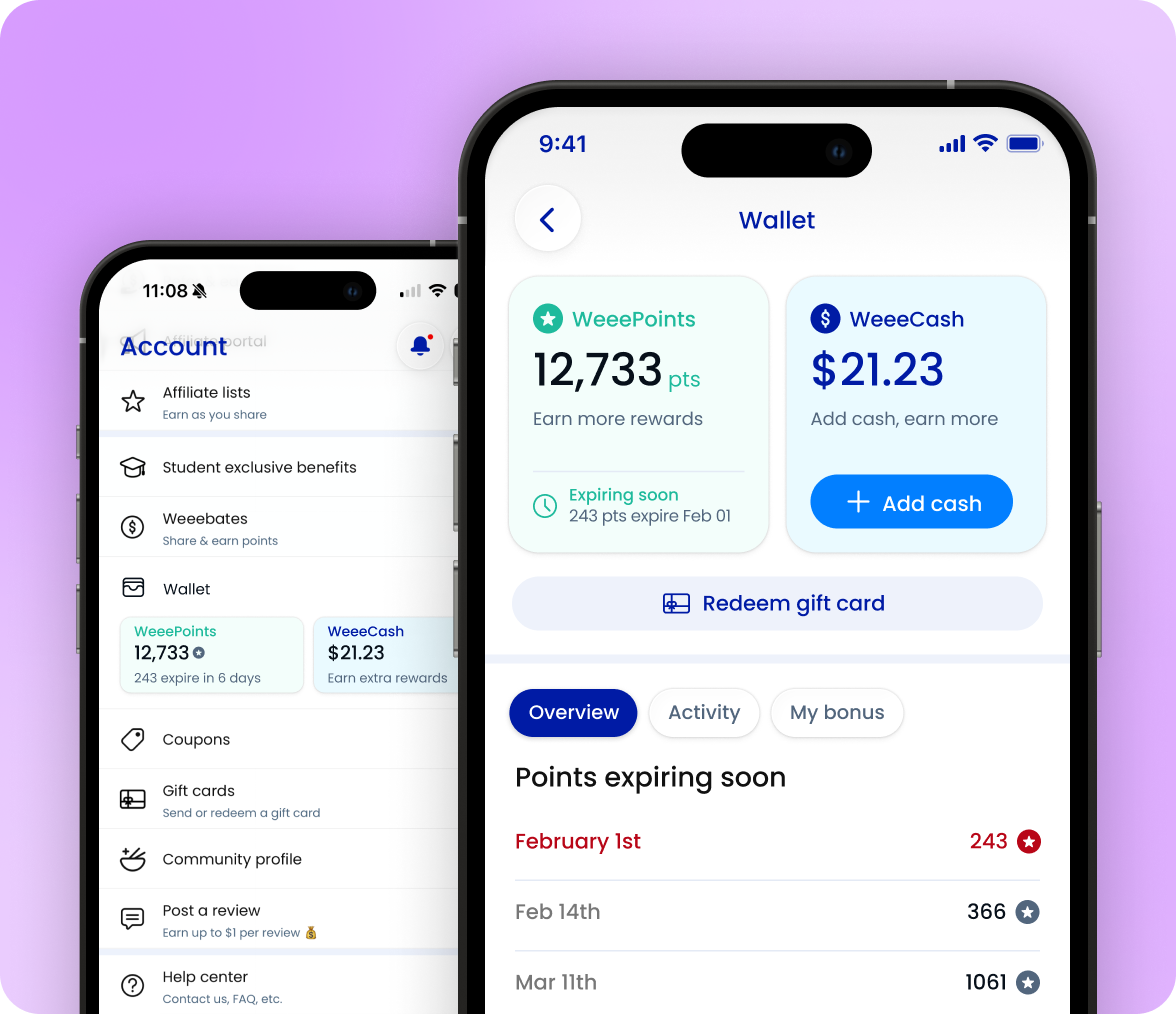
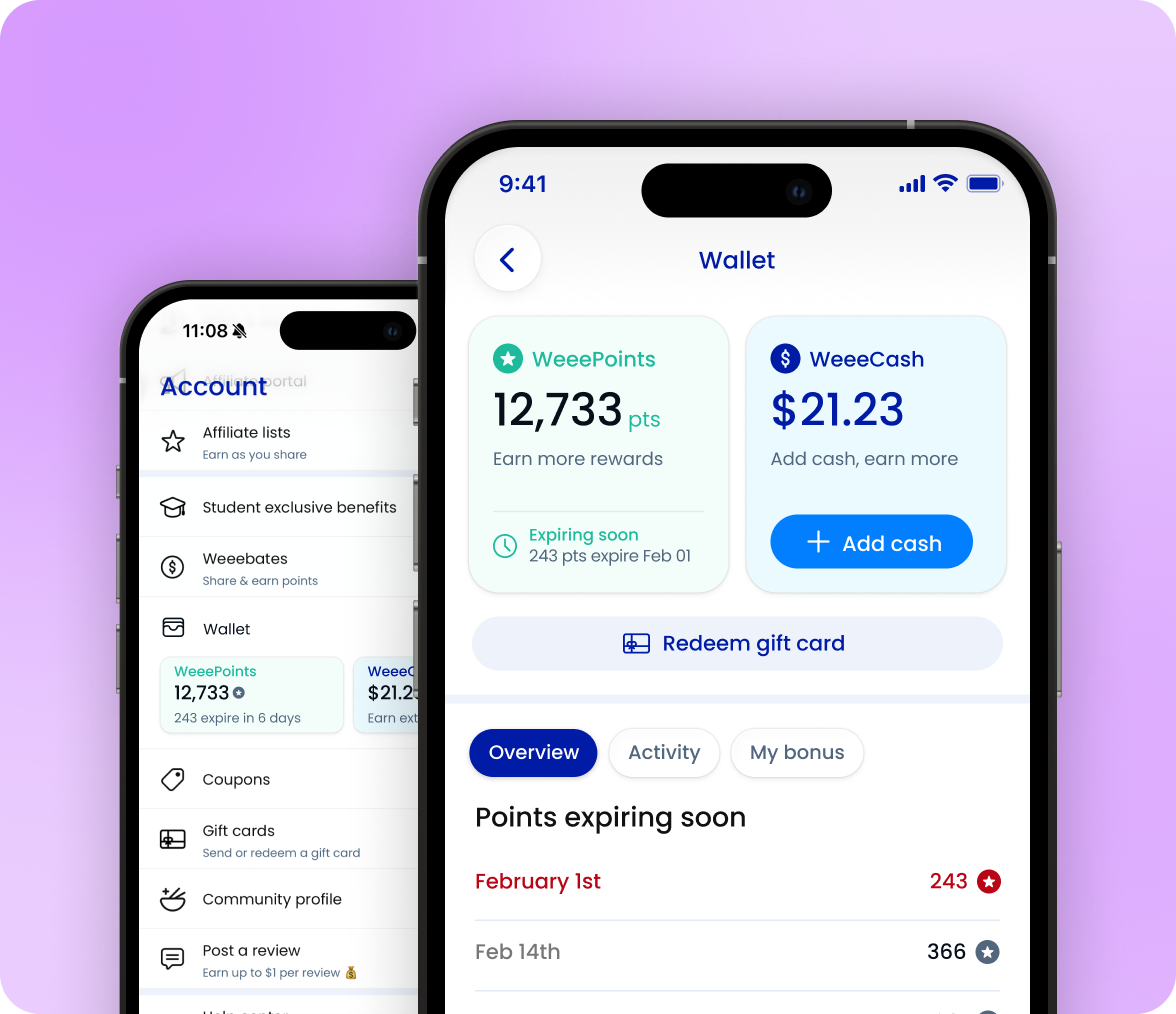
update portfolio

Changed region(s): [[0.0612, 0.0611, 0.949, 1.0]]

diff --git a/src/App.jsx b/src/App.jsx
@@ -17,6 +17,14 @@ import keyExperienceHero from './assets/Loyalty-key-experience-0.png'
 import walletHomeImage from './assets/Loyalty-key-experience-1.png'
 import walletDetailsImage from './assets/Loyalty-key-experience-2.png'
 import expirationAwarenessImage from './assets/Loyalty-key-experience-3.png'
+import failedDeliveryThumbnail from './assets/failed-delivery-recovery-thumbnail.png'
+import businessContextImage from './assets/failed-delivery-recovery-business-context.png'
+import problemStatementImage from './assets/failed-delivery-recovery-problem-statment.png'
+import designPrincipleImage from './assets/failed-delivery-design-principle.png'
+import failedDeliveryKeyExperience from './assets/failed-delivery-key-experience.png'
+import failedDeliveryOutcome from './assets/failed-delivery-recovery-outcome.png'
+import designFlowImage from './assets/failed-delivery-design-flow.png'
+
 
 const caseStudies = [
   {
@@ -39,19 +47,19 @@ const caseStudies = [
   {
     id: 'driver',
     index: '02',
-    title: 'Driver App',
-    subtitle: 'Designing real-time delivery workflows under fulfillment constraints.',
+    title: 'Failed Delivery Recovery Experience',
+    subtitle: 'Helping drivers recover deliveries before they fail.',
     category: 'Operations',
     year: '2022',
     metric: '0→1',
     metricLabel: 'driver workflow',
-    color: '#f4a261',
+    color: '#C6DC94',
     tags: ['Driver experience', 'Service design', 'Operational UX'],
-    problem: 'As Weee! expanded into on-demand restaurant delivery, drivers needed to make fast decisions across pickup, routing, timing, and order handoff.',
+    problem: 'When a delivery issue occurred, drivers were expected to determine the next step themselves. Some contacted customers multiple times, verified location accuracy, or waited for instructions, while others reported a failed delivery immediately.on-demand restaurant delivery, drivers needed to make fast decisions across pickup, routing, timing, and order handoff.',
     insight: 'Drivers do not need more information. They need the right information at the right moment, with clear next actions and fewer ambiguous states.',
     strategy: 'Design a task-focused mobile workflow that reduces decision friction, supports real-time coordination, and keeps drivers confident from offer acceptance to delivery completion.',
     solution: 'We created a streamlined driver experience covering offer review, pickup guidance, order status, delivery instructions, and exception handling for time-sensitive restaurant delivery.',
-    learning: 'Operational UX works best when complexity is structured into simple, sequential decisions.'
+    learning: 'The goal was not to create a better reporting tool. The goal was to create a recovery system that helped drivers succeed before failure occurred.'
   },
 ]
 
@@ -324,37 +332,16 @@ function CaseVisual({ type }) {
   }
 
   if (type === 'driver') {
-    return (
-      <div className="absolute inset-0 flex items-center justify-center p-8">
-        <div className="relative h-[86%] w-[58%] max-w-[320px] rounded-[2.5rem] bg-[#17151d] p-4 text-white shadow-2xl">
-          <div className="mx-auto mb-5 h-1.5 w-16 rounded-full bg-white/20"/>
-          <div className="rounded-[1.75rem] bg-white p-5 text-ink">
-            <div className="mb-5 flex items-center justify-between">
-              <div>
-                <div className="text-xs text-black/45">New offer</div>
-                <div className="text-2xl font-bold tracking-[-.04em]">Restaurant pickup</div>
-              </div>
-              <div className="rounded-full bg-[#f4a261] px-3 py-1 text-xs font-bold">12 min</div>
-            </div>
-
-            <div className="space-y-3">
-              {['Accept offer', 'Navigate to pickup', 'Confirm handoff'].map((label, i) => (
-                <div key={label} className="flex items-center gap-3 rounded-2xl bg-black/[.05] p-3">
-                  <div className="grid h-8 w-8 place-items-center rounded-full bg-black text-xs text-white">{i + 1}</div>
-                  <div className="h-2 flex-1 rounded bg-black/25"/>
-                </div>
-              ))}
-            </div>
-
-            <div className="mt-6 rounded-2xl bg-ink p-4 text-white">
-              <div className="text-xs text-white/50">Next action</div>
-              <div className="mt-1 font-semibold">Go to pickup location</div>
-            </div>
-          </div>
-        </div>
-      </div>
-    )
-  }
+  return (
+    <div className="absolute inset-0 flex items-center justify-center overflow-hidden">
+      <img
+        src={failedDeliveryThumbnail}
+        alt="Failed Delivery Recovery Experience"
+        className="h-full w-full object-cover"
+      />
+    </div>
+  )
+}
 
   return null
 }
@@ -399,8 +386,7 @@ function CasePage({ item, navigate }) {
       </section>
 
       {item.id === 'loyalty' ? <LoyaltyCaseStudy item={item}/> : <DriverCaseStudy item={item}/>}
-      {item.id === 'driver' && <DriverUnavailableOverlay navigate={navigate} />}
-
+ 
       <section className="mx-auto max-w-[1200px] px-5 pb-24 lg:px-10">
         <button
           onClick={() => navigate('/')}
@@ -643,68 +629,169 @@ function DriverCaseStudy({ item }) {
     <div className="mx-auto max-w-[1200px] px-5 py-20 lg:px-10 lg:py-28">
       <CaseSection
         label="Executive Summary"
-        title="Designing a real-time driver workflow for on-demand delivery."
-        body="The Driver App helped translate operational complexity into a simple, step-by-step mobile experience for accepting offers, navigating pickup, managing delivery states, and handling exceptions."
+        title="Transforming failed delivery reporting into a guided recovery experience."
+        body="As Weee! scaled its last-mile delivery network, failed deliveries became a growing operational challenge. Drivers frequently encountered unavailable customers, incorrect addresses, restricted access, or difficulties locating destinations. I led the redesign of the failed delivery workflow, helping drivers resolve delivery issues before abandoning an order."
       />
 
-      <CaseSection
-        label="Business Context"
-        title="On-demand delivery introduced a faster, more operationally complex fulfillment model."
-        body="As Weee! expanded into restaurant delivery, drivers needed better tools to make decisions quickly under time, routing, pickup, and handoff constraints."
-      />
+      <section className="grid gap-6 border-b border-black/15 py-16 lg:grid-cols-[220px_1fr]">
+  <div>
+    <p className="text-xs font-bold uppercase tracking-[.16em] text-black/40">
+      Business Context
+    </p>
+  </div>
 
-      <CaseSection label="Problem Statement" title="Drivers needed clarity under pressure." body={item.problem}/>
-      <CaseSection label="Key Insights" title="The right next action mattered more than more information." body={item.insight}/>
-      <CaseSection label="Design Strategy" title="Structure the experience around sequential decisions." body={item.strategy}/>
+  <div>
+    <h2 className="max-w-4xl text-3xl font-semibold leading-[1.15] tracking-[-.035em] lg:text-6xl">
+      Failed deliveries were more than an operations problem.
+    </h2>
 
+    <p className="mt-6 max-w-3xl text-xl leading-relaxed text-black/60">
+      Weee!'s delivery ecosystem depends on a seamless connection between
+      customers, operations teams, and delivery drivers. As delivery volume
+      increased, failed deliveries became one of the most expensive operational
+      inefficiencies.
+    </p>
+
+    <img
+      src={businessContextImage}
+      alt="Failed Delivery Business Context"
+      className="mt-10 w-full rounded-[24px]"
+    />
+  </div>
+</section>
+		
+		<section className="grid gap-6 border-b border-black/15 py-16 lg:grid-cols-[220px_1fr]">
+  <div>
+    <p className="text-xs font-bold uppercase tracking-[.16em] text-black/40">
+      Problem Statement
+    </p>
+  </div>
+
+  <div>
+    <h2 className="max-w-4xl text-3xl font-semibold leading-[1.15] tracking-[-.035em] lg:text-6xl">
+      Drivers had no clear recovery process.
+    </h2>
+
+    <p className="mt-6 max-w-3xl text-xl leading-relaxed text-black/60">
+      {item.problem}
+    </p>
+
+    <img
+      src={problemStatementImage}
+      alt="Failed Delivery Problem Statement"
+      className="mt-10 w-full rounded-[24px]"
+    />
+  </div>
+</section>
+
+		<section className="grid gap-6 border-b border-black/15 py-16 lg:grid-cols-[220px_1fr]">
+  <div>
+    <p className="text-xs font-bold uppercase tracking-[.16em] text-black/40">
+      RESEARCH & INSIGHTS
+    </p>
+  </div>
+
+  <div>
+    <h2 className="max-w-4xl text-3xl font-semibold leading-[1.15] tracking-[-.035em] lg:text-6xl">
+      The issue was not driver behavior. It was the absence of a recovery framework.
+    </h2>
+
+    <div className="mt-12 rounded-[40px] bg-[#7CA71C] p-10 lg:p-16">
+      <p className="text-xs font-bold uppercase tracking-[.16em] text-white/50">
+        KEY INSIGHT
+      </p>
+
+      <h3 className="mt-8 text-4xl font-semibold leading-[1.08] tracking-[-.015em] text-white lg:text-5xl">
+        Drivers were not intentionally causing delivery failures. They simply lacked confidence and guidance when unexpected situations occurred.
+      </h3>
+    </div>
+  </div>
+</section>      
+      
+		<section className="grid gap-6 border-b border-black/15 py-16 lg:grid-cols-[220px_1fr]">
+  <div>
+    <p className="text-xs font-bold uppercase tracking-[.16em] text-black/40">
+      DESIGN PRINCIPLES
+    </p>
+  </div>
+
+  <div>
+    <h2 className="max-w-4xl text-3xl font-semibold leading-[1.15] tracking-[-.035em] lg:text-6xl">
+      Guide drivers toward recovery before escalation.
+    </h2>
+
+    <p className="mt-6 max-w-3xl text-xl leading-relaxed text-black/60">
+      {item.strategy}
+    </p>
+
+    <img
+      src={designPrincipleImage}
+      alt="Failed Delivery Design Principles"
+      className="mt-10 w-full rounded-[24px]"
+    />
+  </div>
+</section>
+		
       <section className="py-24">
         <p className="mb-6 text-xs font-bold uppercase tracking-[.16em] text-black/40 dark:text-white/40">Key Experiences</p>
-        <h2 className="max-w-4xl text-4xl font-semibold leading-[1.1] tracking-[-.045em] lg:text-6xl">
-          A task-focused mobile workflow from offer acceptance to delivery completion.
+       
+       <h2 className="text-4xl font-semibold leading-[1.1] tracking-[-.045em] lg:text-6xl">
+          A guided failed delivery recovery flow.
         </h2>
+        <p className="mt-6 max-w-4xl text-xl leading-relaxed text-black/60">
+  I redesigned the experience around a structured recovery journey that
+  verifies the package, identifies the issue, confirms location, guides
+  customer contact, recommends next steps, and requires evidence before
+  failure submission.
+</p>
+<div className="mt-12 overflow-hidden rounded-[2rem]">
+  <img
+    src={failedDeliveryKeyExperience}
+    alt="Failed Delivery Recovery Flow"
+    className="w-full"
+  />
+</div>
 
-        <div className="mt-14 grid gap-5 md:grid-cols-2">
-          {['Offer Review', 'Pickup Guidance', 'Delivery Instructions', 'Exception Handling'].map((t) => (
-            <div key={t} className="rounded-[2rem] border border-black/10 bg-white p-7 dark:border-white/10 dark:bg-white/[.04]">
-              <div className="relative min-h-[300px] overflow-hidden rounded-[1.5rem]" style={{backgroundColor:item.color}}>
-                <CaseVisual type="driver"/>
-              </div>
-              <h3 className="mt-8 text-2xl font-semibold tracking-[-.03em]">{t}</h3>
-              <p className="mt-3 text-black/55 dark:text-white/50">
-                Clear, mobile-first guidance designed to reduce ambiguity and support fast driver decisions.
-              </p>
-            </div>
-          ))}
-        </div>
+<div className="mt-12 overflow-hidden rounded-[2rem]">
+  <img
+    src={designFlowImage}
+    alt="Failed Delivery Design Flow"
+    className="w-full"
+  />
+</div>
+        
       </section>
+
+<section className="py-24">
+  <p className="mb-6 text-xs font-bold uppercase tracking-[.16em] text-black/40 dark:text-white/40">
+    OUTCOME
+  </p>
+
+  
+  <h2 className="text-4xl font-semibold leading-[1.1] tracking-[-.045em] lg:text-6xl">
+    Measurable impact across drivers, customers, and operations.
+  </h2>
+
+  <p className="mt-6 max-w-4xl text-xl leading-relaxed text-black/60">
+    The guided recovery workflow improved consistency, reduced avoidable failed
+    deliveries, and created greater visibility into delivery exceptions across
+    the network.
+  </p>
+
+  <div className="mt-12 overflow-hidden rounded-[2rem]">
+    <img
+      src={failedDeliveryOutcome}
+      alt="Failed Delivery Recovery Outcome"
+      className="w-full"
+    />
+  </div>
+</section>
 
       <Learning text={item.learning}/>
     </div>
   )
 }
 
-function DriverUnavailableOverlay({ navigate }) {
-  return (
-    <div className="fixed inset-0 z-[200] flex items-center justify-center bg-black/80 px-5">
-      <div className="w-full max-w-[760px] rounded-[3rem] bg-[#f7f4ec] p-10 text-center text-ink shadow-2xl lg:p-16">
-        <h2 className="text-3xl font-semibold leading-tight tracking-[-.04em] lg:text-5xl">
-          I'm sorry.
-          <br />
-          This case study is still being written.
-          <br />
-          I will have it ready as soon as possible.
-        </h2>
-
-        <button
-          onClick={() => navigate('/')}
-          className="mx-auto mt-12 flex items-center gap-2 rounded-full border border-black/20 px-6 py-3 text-sm font-semibold transition hover:bg-ink hover:text-white"
-        >
-          Back to all work <ArrowRight size={16}/>
-        </button>
-      </div>
-    </div>
-  )
-}
 
 function CaseIntro() {
   return (